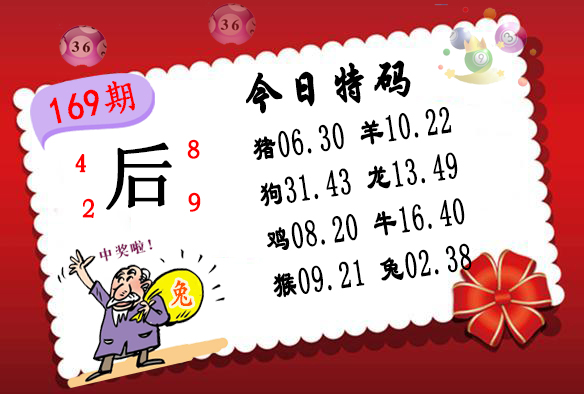
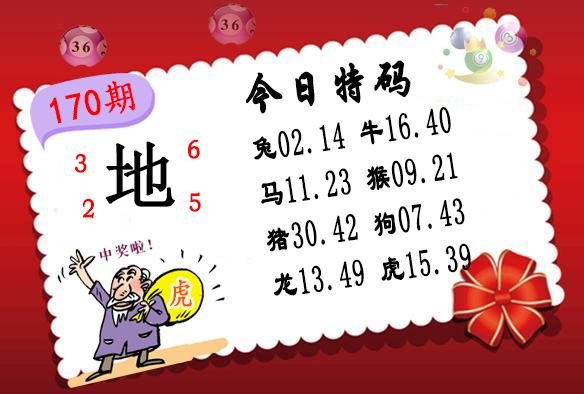
Update:  2024.06.18 13:20:37

diff --git a/Script/Src/xjw/杀两肖图.js b/Script/Src/xjw/杀两肖图.js
@@ -35,8 +35,8 @@ document.writeln("	");
 document.writeln("			<tr style=\'box-sizing: border-box;\'>");
 document.writeln("			<td height=\'40\' style=\'box-sizing: border-box;\'>");
 document.writeln("			");
-document.writeln("<a target=\'_blank\' href=\'https://x1.xn--c2be8bbg0fl3ewb.xn--i1b6b1a6a2e:8443/#/picture/28585\'><img src=\'https://tk2.zaojiao365.net:4949/col/169/c002.jpg\'  width=\'49%\'></a>");
-document.writeln("<a target=\'_blank\' href=\'https://x1.xn--c2be8bbg0fl3ewb.xn--i1b6b1a6a2e:8443/#/picture/209029\'><img src=\'https://tk2.zaojiao365.net:4949/col/169/hj44.jpg\'  width=\'49%\'></a>");
+document.writeln("<a target=\'_blank\' href=\'https://x1.xn--c2be8bbg0fl3ewb.xn--i1b6b1a6a2e:8443/#/picture/28585\'><img src=\'https://tk2.zaojiao365.net:4949/col/170/c002.jpg\'  width=\'49%\'></a>");
+document.writeln("<a target=\'_blank\' href=\'https://x1.xn--c2be8bbg0fl3ewb.xn--i1b6b1a6a2e:8443/#/picture/209029\'><img src=\'https://tk2.zaojiao365.net:4949/col/170/hj44.jpg\'  width=\'49%\'></a>");
 document.writeln("		</td></tr>");
 document.writeln("		");
 document.writeln("		");
@@ -51,6 +51,29 @@ document.writeln("		");
 
 
 
+document.writeln("");
+document.writeln("	");
+document.writeln("	<!--开始-->");
+document.writeln("				<tr style=\'box-sizing: border-box;\'>");
+document.writeln("					<td height=\'40\' style=\'box-sizing: border-box;\'>");
+document.writeln("			<p align=\'center\' style=\'box-sizing: border-box; padding: 0px; margin: 0px;\'>");
+document.writeln("			<font size=\'4\' style=\'margin: 0px; padding: 0px;\'>");
+document.writeln("			170期玄机网禁两肖<font color=\'#FF0000\'>【羊鼠】</font>特开<font color=\'#0000FF\'>？00</font>准<br>");
+document.writeln("			170期澳门杀两肖图<font color=\'#FF0000\'>【羊狗】</font>特开<font color=\'#0000FF\'>？00</font>准<br>");
+document.writeln("			170期澳门图库禁肖<font color=\'#FF0000\'>【鸡虎】</font>特开<font color=\'#0000FF\'>？00</font>准</font></font></p></td>");
+document.writeln("		</tr>");
+document.writeln("<!--推广-->");
+document.writeln("				<tr style=\'box-sizing: border-box;\'>");
+document.writeln("					<td height=\'40\' style=\'box-sizing: border-box;\' bgcolor=\'#FFFF00\'>");
+document.writeln("			<p align=\'center\' style=\'box-sizing: border-box; padding: 0px; margin: 0px;\'>");
+document.writeln("			<a target=\'_blank\' href=\'https://j.1999xz.com:1999/\' style=\'text-decoration: none\'><img src=/yyy123.gif style=\'width:20px\' height=\'19\'><span style=font-family:楷体;color:#00f><font style=\'font-size: 15pt\'>点击投注澳门六合彩</font></span><span style=font-family:楷体;font-size:17pt;><font color=\'#FF0000\'>1999.cc</font></span></a></strong>");
+document.writeln("</p></td></tr>");
+document.writeln("<!--结束-->	");
+document.writeln("");
+
+
+
+
 
 document.writeln("");
 document.writeln("												<!--开始-->");
@@ -58,9 +81,9 @@ document.writeln("				<tr style=\'box-sizing: border-box;\'>");
 document.writeln("					<td height=\'40\' style=\'box-sizing: border-box;\'>");
 document.writeln("			<p align=\'center\' style=\'box-sizing: border-box; padding: 0px; margin: 0px;\'>");
 document.writeln("			<font size=\'4\' style=\'margin: 0px; padding: 0px;\'>");
-document.writeln("			169期玄机网禁两肖<font color=\'#FF0000\'>【鼠牛】</font>特开<font color=\'#0000FF\'>？00</font>准<br>");
-document.writeln("			169期澳门杀两肖图<font color=\'#FF0000\'>【鸡虎】</font>特开<font color=\'#0000FF\'>？00</font>准<br>");
-document.writeln("			169期澳门图库禁肖<font color=\'#FF0000\'>【羊鼠】</font>特开<font color=\'#0000FF\'>？00</font>准</font></font></p></td>");
+document.writeln("			169期玄机网禁两肖<font color=\'#FF0000\'>【鼠牛】</font>特开<font color=\'#0000FF\'>猴45</font>准<br>");
+document.writeln("			169期澳门杀两肖图<font color=\'#FF0000\'>【鸡虎】</font>特开<font color=\'#0000FF\'>猴45</font>准<br>");
+document.writeln("			169期澳门图库禁肖<font color=\'#FF0000\'>【羊鼠】</font>特开<font color=\'#0000FF\'>猴45</font>准</font></font></p></td>");
 document.writeln("		</tr>");
 document.writeln("<!--推广-->");
 document.writeln("				<tr style=\'box-sizing: border-box;\'>");

diff --git a/Script/Src/xjw/2qpt.js b/Script/Src/xjw/2qpt.js
@@ -51,12 +51,37 @@ document.writeln("	<!----开始---->    ");
 document.writeln("	<table border=\'1\' width=\'100%\' cellpadding=\'0\' height=\'83\' cellspacing=\'0\' bgcolor=\'#FFFFFF\' bordercolor=\'#D4D4D4\' style=\'border-collapse: collapse\'>");
 document.writeln("		<tr>");
 document.writeln("		<td  height=\'11\' align=\'center\' bgcolor=\'#FFFFFF\' width=\'10%\'>");
+document.writeln("		<b><font face=\'微软雅黑\'>170-172期</font></b></td>");
+document.writeln("		<td align=\'center\' bgcolor=\'#FFFFFF\' width=\'65%\' rowspan=\'3\'>");
+document.writeln("		<strong>");
+document.writeln("		<font face=\'微软雅黑\' size=\'5\' color=\'#FF0000\'>猪<br>（30.42.06）</font></strong></td>");
+document.writeln("		<td  height=\'11\' align=\'center\' bgcolor=\'#FFFFFF\' width=\'10%\'>");
+document.writeln("		<font face=\'微软雅黑\'>000期中</font></td>");
+document.writeln("		</tr>");
+document.writeln("");
+document.writeln("");
+document.writeln("		</table>");
+document.writeln("		");
+document.writeln("");
+
+
+
+
+
+
+
+
+
+document.writeln("	<!----开始---->    ");
+document.writeln("	<table border=\'1\' width=\'100%\' cellpadding=\'0\' height=\'83\' cellspacing=\'0\' bgcolor=\'#FFFFFF\' bordercolor=\'#D4D4D4\' style=\'border-collapse: collapse\'>");
+document.writeln("		<tr>");
+document.writeln("		<td  height=\'11\' align=\'center\' bgcolor=\'#FFFFFF\' width=\'10%\'>");
 document.writeln("		<b><font face=\'微软雅黑\'>167-169期</font></b></td>");
 document.writeln("		<td align=\'center\' bgcolor=\'#FFFFFF\' width=\'65%\' rowspan=\'3\'>");
 document.writeln("		<strong>");
-document.writeln("		<font face=\'微软雅黑\' size=\'5\' color=\'#FF0000\'>牛牛牛<br>（04.16.28）</font></strong></td>");
+document.writeln("		<font face=\'微软雅黑\' size=\'5\' color=\'#FF0000\'>牛牛牛<br>（04.<span style='background-color: #FFFF00\'>16</span>.28）</font></strong></td>");
 document.writeln("		<td  height=\'11\' align=\'center\' bgcolor=\'#FFFFFF\' width=\'10%\'>");
-document.writeln("		<font face=\'微软雅黑\'>000期中</font></td>");
+document.writeln("		<font face=\'微软雅黑\'>169期中</font></td>");
 document.writeln("		</tr>");
 document.writeln("");
 document.writeln("");

diff --git a/Script/Src/xjw/3q4x8m.js b/Script/Src/xjw/3q4x8m.js
@@ -49,7 +49,7 @@ document.writeln("		<td  height=\'11\' align=\'center\' bgcolor=\'#FFFFFF\' widt
 document.writeln("		<b><font face=\'微软雅黑\'>171期</font></b></td>");
 document.writeln("		<td align=\'center\' bgcolor=\'#FFFFFF\' width=\'65%\' rowspan=\'3\'>");
 document.writeln("		<strong>");
-document.writeln("		<font face=\'微软雅黑\' size=\'5\' color=\'#FF0000\'>蛇狗猴鼠</span></font>");
+document.writeln("		<font face=\'微软雅黑\' size=\'5\' color=\'#FF0000\'>蛇狗<span style='background-color: #FFFF00\'猴</span>鼠</span></font>");
 document.writeln("		<font face=\'微软雅黑\' color=\'#FF0000\'>（36.48.07.31.09.21.05.41）</span></font></strong><font face=\'微软雅黑\' color=\'#FF0000\'></span></font></td>");
 document.writeln("		<td  height=\'11\' align=\'center\' bgcolor=\'#FFFFFF\' width=\'10%\'>");
 document.writeln("		<font face=\'微软雅黑\'>开:0000</font></td>");
@@ -68,7 +68,7 @@ document.writeln("		<b style=\'padding: 0px; margin: 0px; word-wrap: break-word;
 document.writeln("		<font face=\'微软雅黑\' style=\'word-wrap: break-word; margin: 0px; padding: 0px\'>");
 document.writeln("		169期</font></b></td>");
 document.writeln("		<td align=\'center\' bgcolor=\'#FFFFFF\' width=\'10%\' style=\'height: 26px\'>");
-document.writeln("		<font face=\'微软雅黑\'>开:0000</font></td>");
+document.writeln("		<font face=\'微软雅黑\'>开:猴45</font></td>");
 document.writeln("		</tr>");
 document.writeln("		</table>");
 document.writeln("		");
